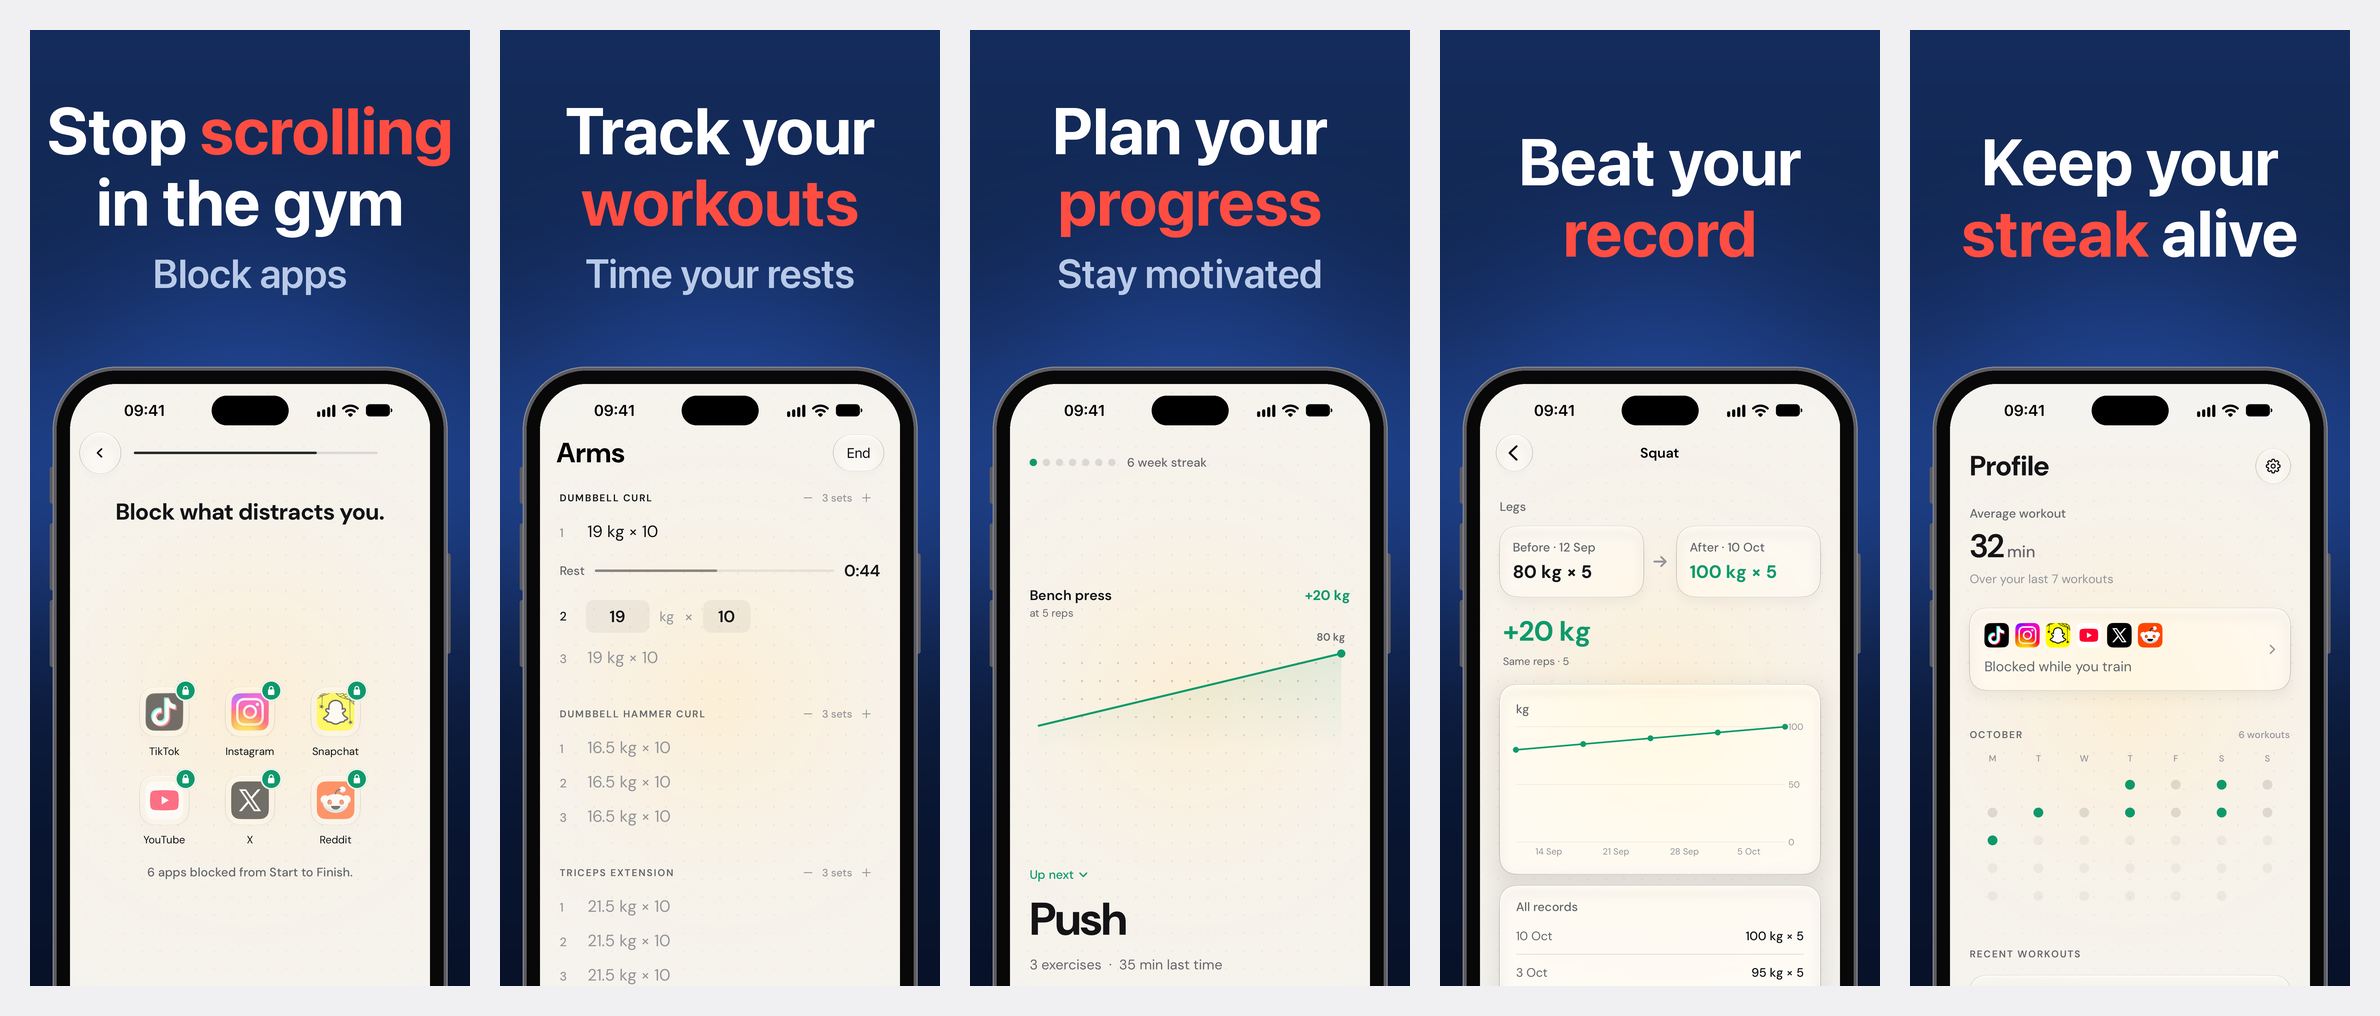
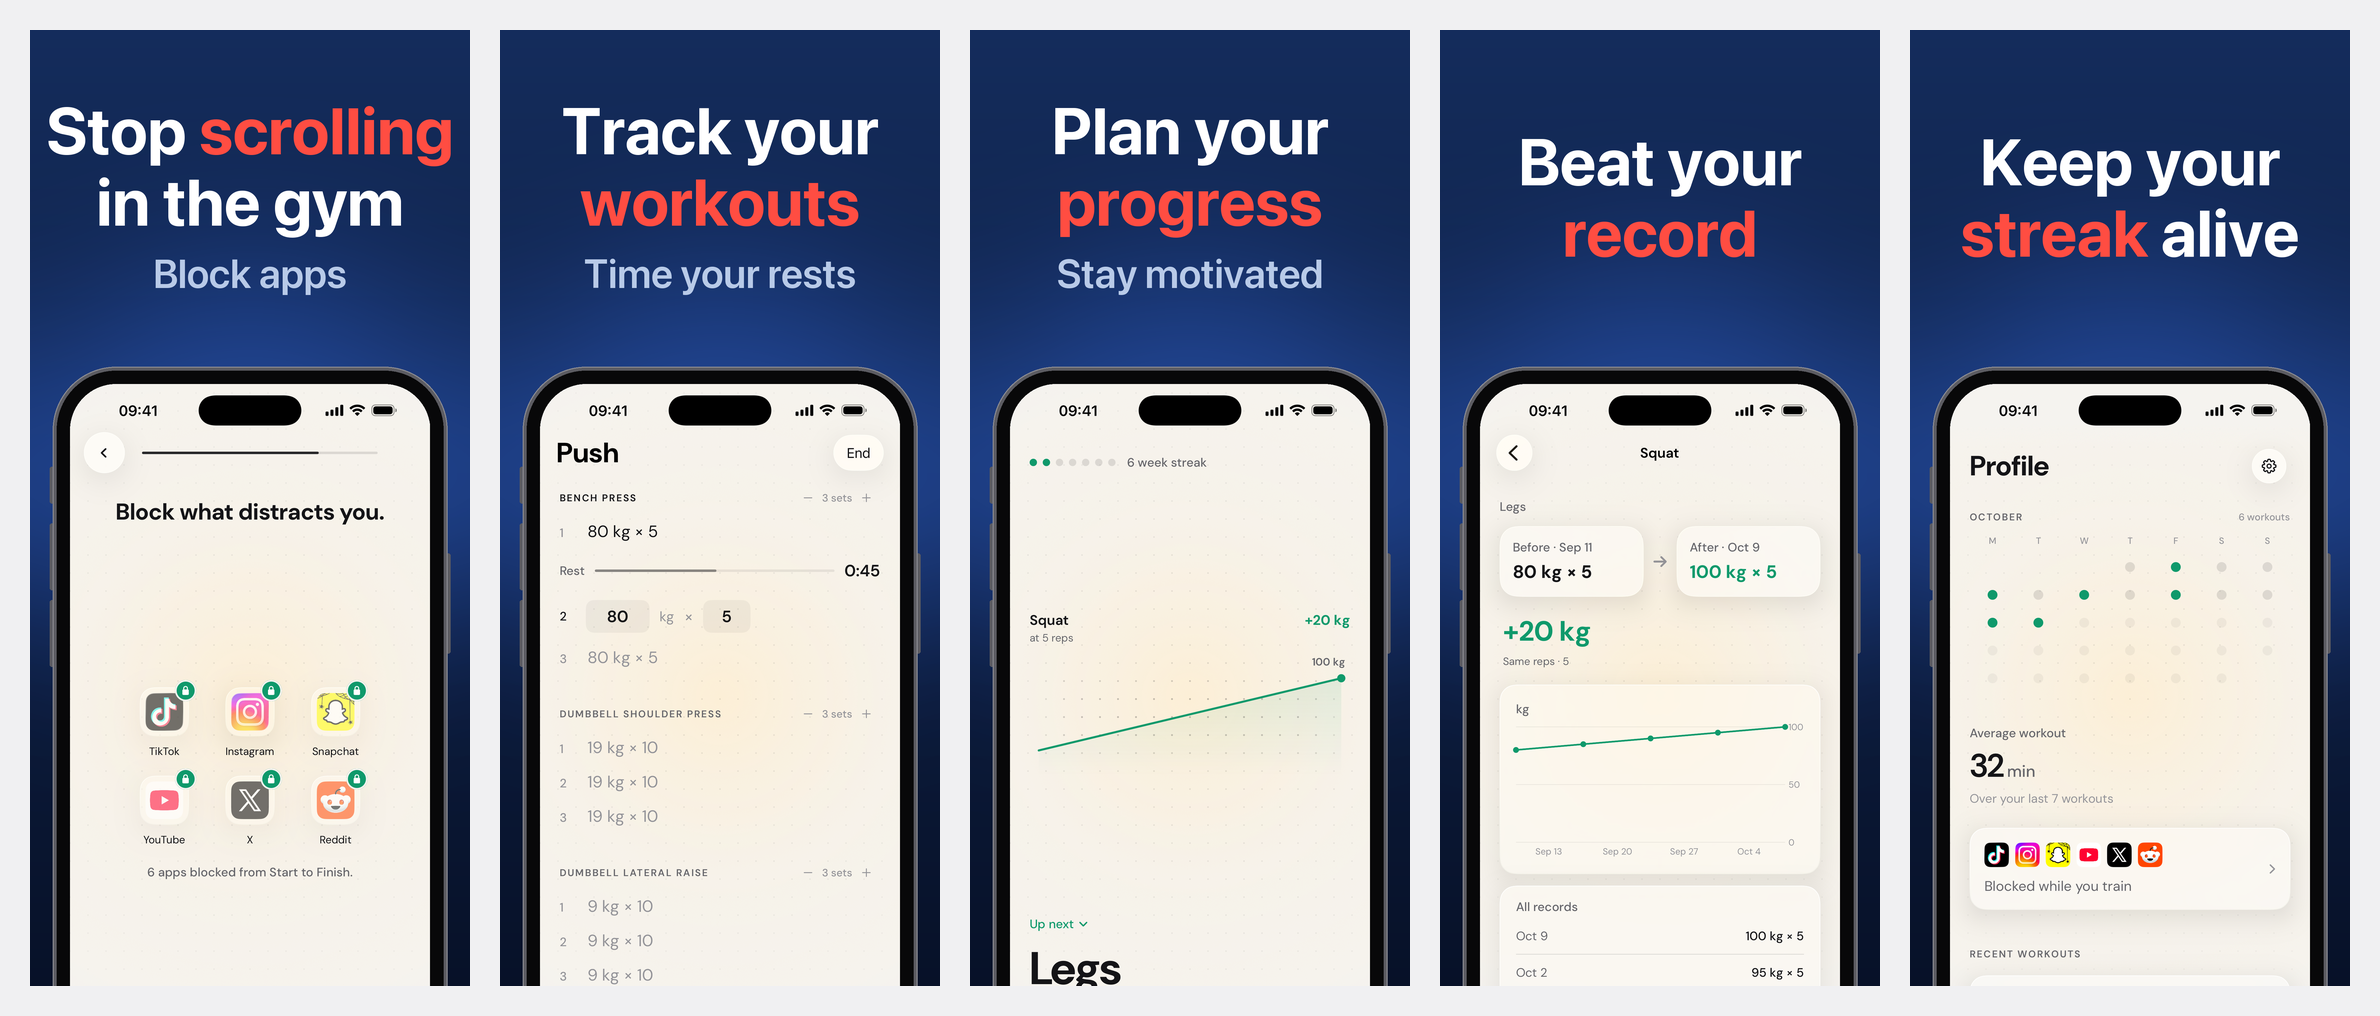
App Store screenshots recaptured for the tab bar and new Home
Same framing as before, from fresh 6.9-inch captures, exported for the
6.9-inch (1320x2868) and 6.3-inch (1206x2622) slots.

diff --git a/scripts/frame-store-screenshots.py b/scripts/frame-store-screenshots.py
@@ -1,5 +1,5 @@
 #!/usr/bin/env python3
-"""Frames App Store screenshots for the 6.9-inch slot (1320x2868).
+"""Frames App Store screenshots for the 6.9-inch (1320x2868) and 6.3-inch (1206x2622) slots.
 
 Principles: the caption must read at search-result size (about a sixth of full size), so it is
 large, bold and at most two lines; one word per headline in red and no other colour; a deep blue
@@ -9,13 +9,14 @@ bottom edge, cut above each screen's bottom button.
 
     python3 scripts/frame-store-screenshots.py
 
-Reads screenshots/store-2026-10-12/, writes screenshots/store-final/.
+Reads screenshots/store-2026-10-13/, writes screenshots/store-final/6.9/ and store-final/6.3/.
+Both slots have the same shape, so the 6.3-inch set is the 6.9-inch frame scaled down.
 """
 import os
 from PIL import Image, ImageDraw, ImageFilter, ImageFont
 
 ROOT = os.path.dirname(os.path.dirname(os.path.abspath(__file__)))
-SRC = os.path.join(ROOT, "screenshots", "store-2026-10-12")
+SRC = os.path.join(ROOT, "screenshots", "store-2026-10-13")
 OUT = os.path.join(ROOT, "screenshots", "store-final")
 
 W, H = 1320, 2868
@@ -142,11 +143,16 @@ def frame(headline, accent, sub, capture):
     return canvas
 
 
+SIZES = {"6.9": (1320, 2868), "6.3": (1206, 2622)}
+
+
 def main():
-    os.makedirs(OUT, exist_ok=True)
     for i, (headline, accent, sub, capture) in enumerate(SLIDES, 1):
         name = f"{i}-{headline.lower().replace(' ', '-')}.png"
-        frame(headline, accent, sub, capture).save(os.path.join(OUT, name))
+        slide = frame(headline, accent, sub, capture)
+        for slot, size in SIZES.items():
+            os.makedirs(os.path.join(OUT, slot), exist_ok=True)
+            (slide if size == (W, H) else slide.resize(size, Image.LANCZOS)).save(os.path.join(OUT, slot, name))
         print(name)
 
 if __name__ == "__main__":

diff --git a/docs/listing.md b/docs/listing.md
@@ -69,17 +69,17 @@ Privacy Policy: https://www.orecci.com/gymblock/privacy-policy
 
 ## Screenshots
 
-Captions chosen 11 Oct 2026 after a look at Hevy, Strong, Fitbod, RepCount, Setgraph, Opal, ScreenZen, one sec, Brick and others: a verb-led headline with a short second line, one word in red. Search results show the first three. Recaptured 12 Oct 2026 after the workout, Home, Profile and DM Sans redesign: captures are 1320×2868 (6.9-inch, iPhone 18 Pro Max, iOS 27.0) in `screenshots/store-2026-10-12/`; the framed versions (deep blue stage, white headline with one red word, a thick phone running off the bottom edge) are in `screenshots/store-final/`, made by `python3 scripts/frame-store-screenshots.py`.
+Captions chosen 11 Oct 2026 after a look at Hevy, Strong, Fitbod, RepCount, Setgraph, Opal, ScreenZen, one sec, Brick and others: a verb-led headline with a short second line, one word in red. Search results show the first three. Recaptured 12 Oct 2026 after the workout, Home, Profile and DM Sans redesign: recaptured again 13 Oct 2026 after the tab bar and Home changes: captures are 1320×2868 (iPhone 17 Pro Max, iOS 26.5) in `screenshots/store-2026-10-13/`; the framed versions (deep blue stage, white headline with one red word, a thick phone running off the bottom edge) are in `screenshots/store-final/6.9/` (1320×2868) and `screenshots/store-final/6.3/` (1206×2622), made by `python3 scripts/frame-store-screenshots.py`.
 
 | # | Headline | Second line | Screen |
 |---|---|---|---|
 | 1 | Stop **scrolling** in the gym | Block apps | The blocking page with six locked apps (`-storeShots YES -journeyStep blocking`) |
 | 2 | Track your **workouts** | Time your rests | Arms mid-rest after set 1 (`-workoutStage rest -storeShots YES`) |
-| 3 | Plan your **progress** | Stay motivated | Home: 6 week streak, Bench press +20 kg, Up next Push (after the workout below) |
+| 3 | Plan your **progress** | Stay motivated | Home: 6 week streak, Squat +20 kg, Up next Legs (after the workout below) |
 | 4 | Beat your **record** | | Squat before/after, +20 kg (Home → Up next → Legs → tap the chart) |
 | 5 | Keep your **streak** alive | | Profile: October's training dots and blocked apps |
 
-Slides 3–5 come from one seeded run: `-workoutStage next -storeShots YES`, set 3 edited to 21.5 kg, End → Done → Home (3) → Profile (5) → squat (4). The rebuilt shield over Instagram (`-shieldPreview Instagram`) and the workout summary were tried for slides 1 and 5 on 12 Oct and rejected. The sample history's weeks start on Monday, so on a Monday only the day's own workout fills this week's dot.
+Slides 3–5 come from one seeded run on a fresh install: `-workoutStage next -storeShots YES`, End → End workout → Done → Home (3) → tap the chart (4) → Profile tab (5). The status bar is `simctl status_bar … --time 09:41 --batteryState discharging --batteryLevel 100`. The rebuilt shield over Instagram (`-shieldPreview Instagram`) and the workout summary were tried for slides 1 and 5 on 12 Oct and rejected. The sample history's weeks start on Monday, so on a Monday only the day's own workout fills this week's dot.
 
 Keep the onboarding phone-time estimates ("34 of 46 minutes") out of the screenshots. They are the user's own numbers, not a measurement.
 
